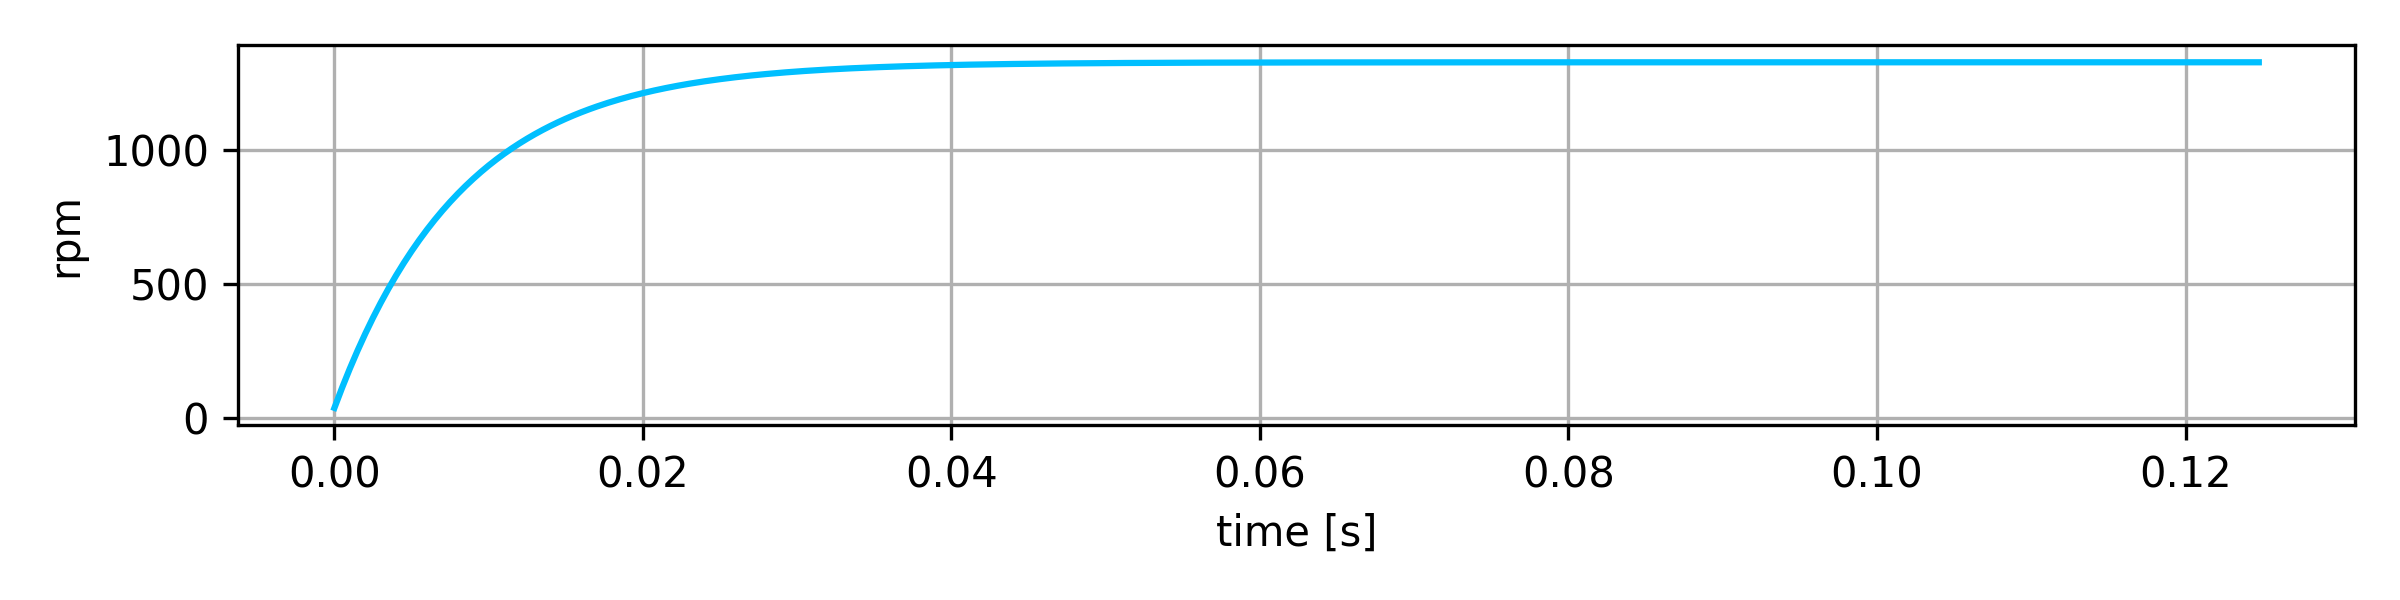
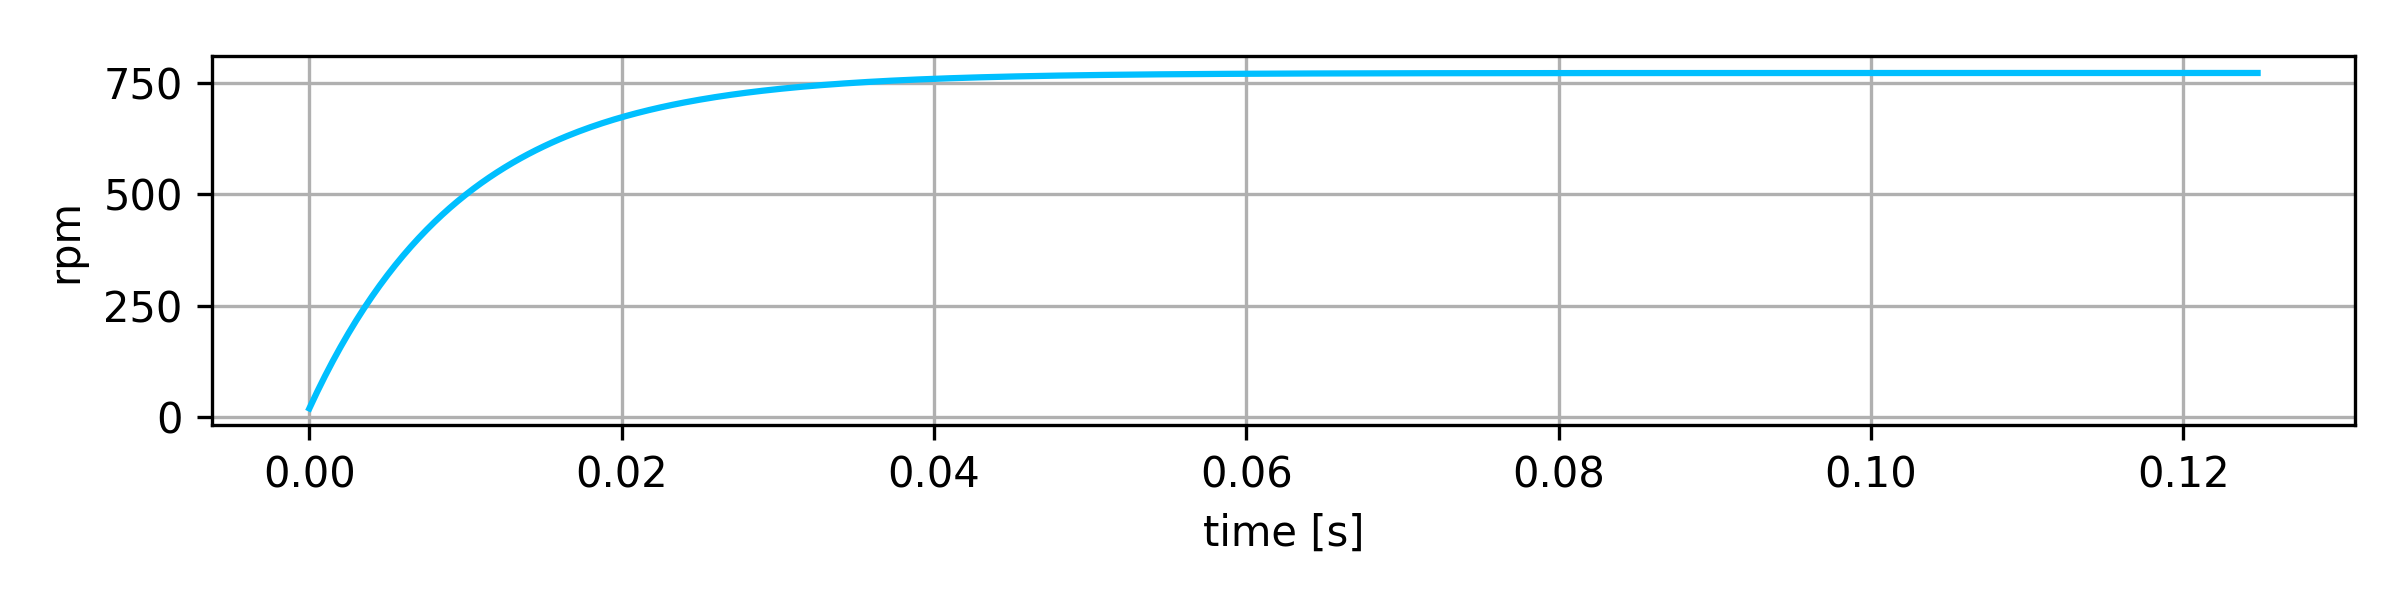
pid example

diff --git a/simulations/plot_results/pid_motor_main.py b/simulations/plot_results/pid_motor_main.py
@@ -1,0 +1,58 @@
+import matplotlib.pyplot as plt
+import matplotlib.animation as animation
+import time
+import numpy
+
+
+import json_serial_port_parser
+
+
+max_length = 300
+
+y_data = []
+
+def animate(i): 
+    while True:
+        serial_port.process()
+        if serial_port.udpated():
+
+            json_data = serial_port.get()
+            
+            y = numpy.array(json_data["data"])
+
+            y_data.append(y)
+
+            if len(y_data) > max_length:
+                del y_data[:max_length]
+
+               
+            axs[0].clear()
+            axs[1].clear()
+
+            axs[1].plot(numpy.array(y_data)[:, 1], label="controller output value", color="red")
+            axs[1].set_ylabel("controller output value")
+            #axs[1].set_ylim(-1.1, 1.1)
+            
+            axs[0].plot(numpy.array(y_data)[:, 0], label="required value", color="red")
+            axs[0].plot(numpy.array(y_data)[:, 2], label="encoder reading", color="blue")
+            axs[0].set_ylabel("rpm")    
+            axs[0].set_ylim(0, 600)
+            axs[0].legend(loc="upper left")
+
+            break
+        else:
+            time.sleep(0.1)
+
+
+
+
+if __name__ == "__main__":
+
+    serial_port_name = "/dev/tty.usbserial-110"
+    serial_port = json_serial_port_parser.JsonSerialPortParser(serial_port_name)
+
+    fig, axs = plt.subplots(2, 1)
+
+
+    ani = animation.FuncAnimation(fig, animate, interval=10)
+    plt.show()

diff --git a/firmware/libs/LibsDrivers/motor_control.cpp b/firmware/libs/LibsDrivers/motor_control.cpp
@@ -148,6 +148,24 @@ void MotorControl::init()
     left_pwm.init();
     right_pwm.init();
 
+
+
+    //PID controller init
+
+    float kp  = 0.01;
+    float ki  = 0.0003;
+    float kd  = 0.0;
+    
+    left_controller.init(kp, ki, kd, 1.0);
+    right_controller.init(kp, ki, kd, 1.0);
+
+
+
+
+
+
+
+    /*
     //optimal control init 
     
     //discrete dynamics model
@@ -164,7 +182,7 @@ void MotorControl::init()
 
     left_controller.init(a, b, k, ki, f, 1.0);
     right_controller.init(a, b, k, ki, f, 1.0);
-
+    */
 
     //init encoders     
     encoder_init();
@@ -361,7 +379,7 @@ void MotorControl::encoder_init()
     EXTI_InitTypeDef   EXTI_InitStructure;
     NVIC_InitTypeDef   NVIC_InitStructure;
 
-
+    // clock enable
     RCC_APB2PeriphClockCmd(RCC_APB2Periph_SYSCFG, ENABLE);
     
 

diff --git a/firmware/libs/LibsDrivers/motor_control.h b/firmware/libs/LibsDrivers/motor_control.h
@@ -94,11 +94,12 @@ class MotorControl
         PWMRight    right_pwm;
 
         //single input, single output motor speed controller
-        LQGSingle left_controller;
-        LQGSingle right_controller;
+        PID left_controller;
+        PID right_controller;
+        //LQGSingle left_controller;
+        //LQGSingle right_controller;
         
-        //LQRSingle left_controller;  
-        //LQRSingle right_controller;
+       
 };
 
 

diff --git a/firmware/libs/LibsDrivers/pid.h b/firmware/libs/LibsDrivers/pid.h
@@ -14,11 +14,16 @@ class PID
         void init(float kp, float ki, float kd, float antiwindup);
         float step(float xr, float x);
         void reset();
+
+        float get_x_hat();
       
     private:
         float k0, k1, k2;
         float e0, e1, e2;
-        float u, antiwindup;
+        float antiwindup;
+
+    public:
+        float u;
 
 };
 

diff --git a/firmware/libs/LibsDrivers/pid.cpp b/firmware/libs/LibsDrivers/pid.cpp
@@ -56,3 +56,8 @@ void PID::reset()
 {
     this->u = 0;
 }
+
+float PID::get_x_hat()
+{
+    return (e0 + e1 + e2)/3.0;
+}
